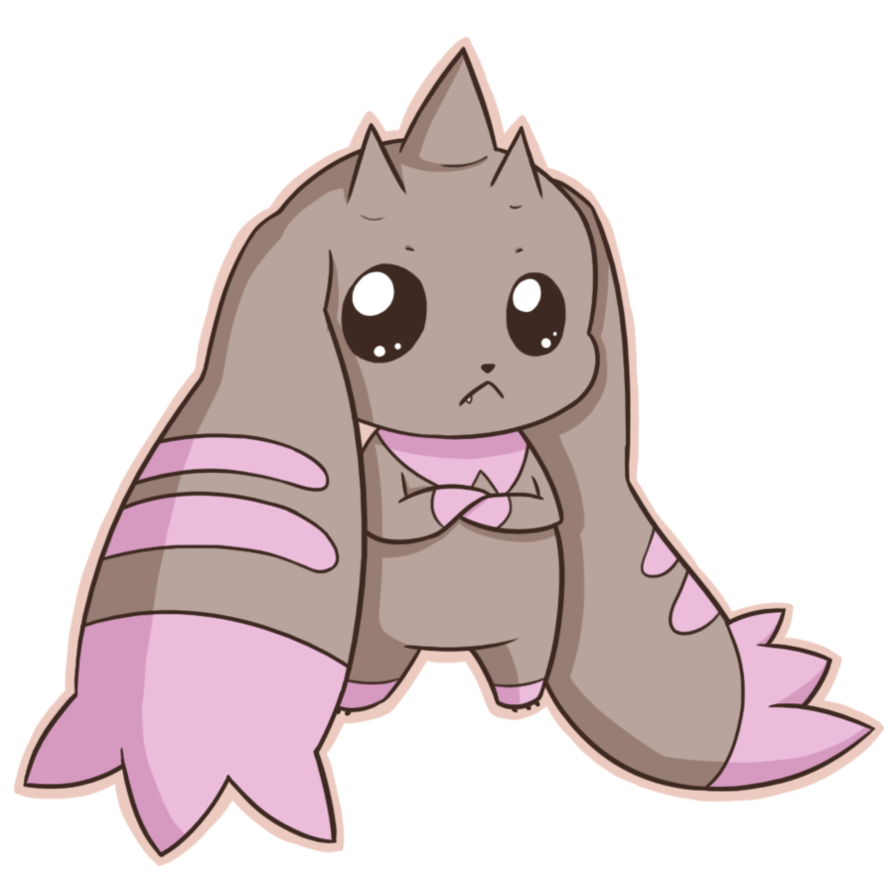
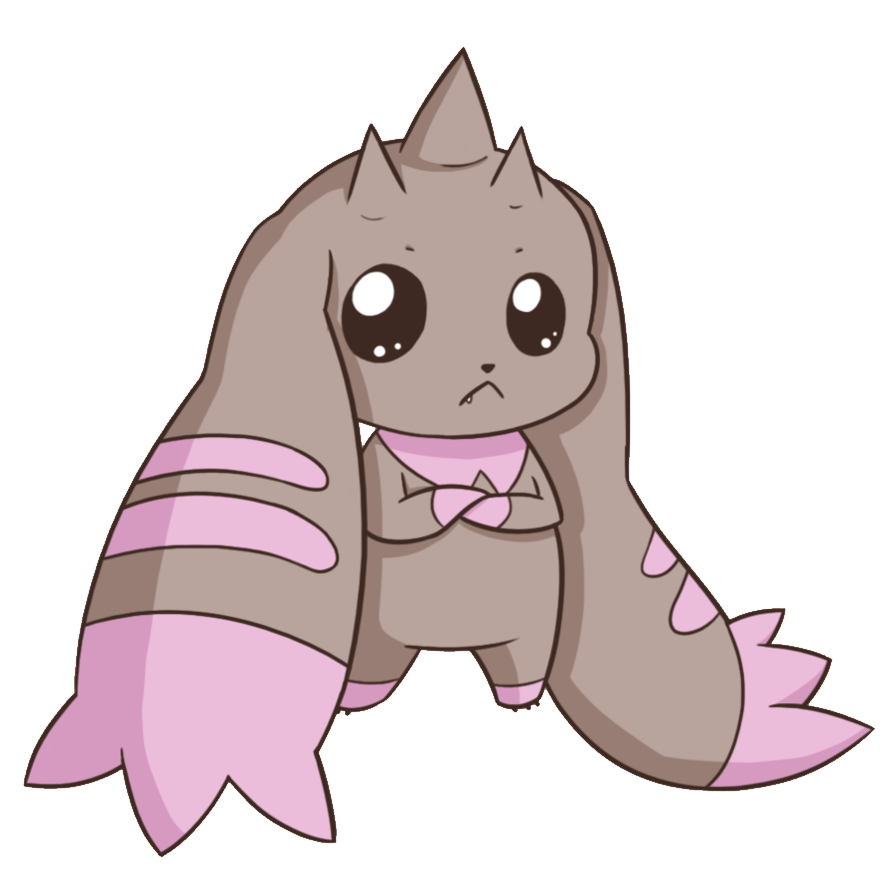
Add files via upload
Updated most if not All the Images.
Added more pokemon & digimon (100 total)
Changed the digimon logo

diff --git a/contacts/phil/projects/DigiPoke/js/main.js b/contacts/phil/projects/DigiPoke/js/main.js
@@ -1,51 +1,72 @@
-
 var mons=[];
-mons[0]= {pic:"mons/Viximon.png", name:"Viximon", type:"digimon"};
-mons[1]= {pic:"mons/1.png", name:"Bulbasaur", type:"pokemon"};
-mons[2]= {pic:"mons/2.png", name:"Ivyasaur", type:"pokemon"};
-mons[3]= {pic:"mons/3.png", name:"Venusaur", type:"pokemon"};
-mons[4]= {pic:"mons/4.png", name:"Charmander", type:"pokemon"};
-mons[5]= {pic:"mons/5.png", name:"Charmeleon", type:"pokemon"};
-mons[6]= {pic:"mons/6.png", name:"Charizard", type:"pokemon"};
-mons[7]= {pic:"mons/7.png", name:"Squirtle", type:"pokemon"};
-mons[8]= {pic:"mons/8.png", name:"Wartortle", type:"pokemon"};
-mons[9]= {pic:"mons/9.png", name:"Blastoise", type:"pokemon"};
-mons[10]= {pic:"mons/10.png", name:"Caterpie", type:"pokemon"};
-mons[11]= {pic:"mons/11.png", name:"Metapod", type:"pokemon"};
-mons[12]= {pic:"mons/12.png", name:"Butterfree", type:"pokemon"};
-mons[13]= {pic:"mons/13.png", name:"Weedle", type:"pokemon"};
-mons[14]= {pic:"mons/14.png", name:"Kakuna", type:"pokemon"};
-mons[15]= {pic:"mons/15.png", name:"Beedrill", type:"pokemon"};
-mons[16]= {pic:"mons/16.png", name:"Pidgey", type:"pokemon"};
-mons[17]= {pic:"mons/17.png", name:"Pidgeotto", type:"pokemon"};
-mons[18]= {pic:"mons/18.png", name:"Pidgeot", type:"pokemon"};
-mons[19]= {pic:"mons/19.png", name:"Rattata", type:"pokemon"};
-mons[20]= {pic:"mons/20.png", name:"Raticate", type:"pokemon"};
-mons[21]= {pic:"mons/21.png", name:"Spearow", type:"pokemon"};
-mons[22]= {pic:"mons/22.png", name:"Fearow", type:"pokemon"};
-mons[23]= {pic:"mons/23.png", name:"Ekans", type:"pokemon"};
-mons[24]= {pic:"mons/24.png", name:"Arbok", type:"pokemon"};
-mons[25]= {pic:"mons/25.png", name:"Pikachu", type:"pokemon"};
-mons[26]= {pic:"mons/26.png", name:"Raichu", type:"pokemon"};
-mons[27]= {pic:"mons/27.png", name:"Sandshrew", type:"pokemon"};
-mons[28]= {pic:"mons/28.png", name:"Sandslash", type:"pokemon"};
-mons[29]= {pic:"mons/29.png", name:"Nidoran♀", type:"pokemon"};
-mons[30]= {pic:"mons/30.png", name:"Nidorina", type:"pokemon"};
-mons[31]= {pic:"mons/31.png", name:"Nidoqueen", type:"pokemon"};
-mons[32]= {pic:"mons/32.png", name:"Nidoran♂", type:"pokemon"};
-mons[33]= {pic:"mons/33.png", name:"Nidorino", type:"pokemon"};
-mons[34]= {pic:"mons/34.png", name:"Nidoking", type:"pokemon"};
-mons[35]= {pic:"mons/35.png", name:"Clefairy", type:"pokemon"};
-mons[36]= {pic:"mons/36.png", name:"Clefable", type:"pokemon"};
-mons[37]= {pic:"mons/37.png", name:"Vulpix", type:"pokemon"};
-mons[38]= {pic:"mons/38.png", name:"Ninetales", type:"pokemon"};
-mons[39]= {pic:"mons/39.png", name:"Jigglypuff", type:"pokemon"};
-mons[40]= {pic:"mons/40.png", name:"Wigglytuff", type:"pokemon"};
-mons[41]= {pic:"mons/41.png", name:"Zubat", type:"pokemon"};
-mons[42]= {pic:"mons/42.png", name:"Golbat", type:"pokemon"};
-mons[43]= {pic:"mons/43.png", name:"Oddish", type:"pokemon"};
-mons[44]= {pic:"mons/44.png", name:"Gloom", type:"pokemon"};
-mons[45]= {pic:"mons/45.png", name:"Vileplume", type:"pokemon"};
+mons[0]= {pic:"mons/Missingno.png", name:"Missingno.", type:"pokemon"};
+mons[1]= {pic:"mons/Bulbasaur.png", name:"Bulbasaur", type:"pokemon"};
+mons[2]= {pic:"mons/Ivysaur.png", name:"Ivyasaur", type:"pokemon"};
+mons[3]= {pic:"mons/Venusaur.png", name:"Venusaur", type:"pokemon"};
+mons[4]= {pic:"mons/Charmander.png", name:"Charmander", type:"pokemon"};
+mons[5]= {pic:"mons/Charmeleon.png", name:"Charmeleon", type:"pokemon"};
+mons[6]= {pic:"mons/Charizard.png", name:"Charizard", type:"pokemon"};
+mons[7]= {pic:"mons/Squirtle.png", name:"Squirtle", type:"pokemon"};
+mons[8]= {pic:"mons/Wartortle.png", name:"Wartortle", type:"pokemon"};
+mons[9]= {pic:"mons/Blastoise.png", name:"Blastoise", type:"pokemon"};
+mons[10]= {pic:"mons/Caterpie.png", name:"Caterpie", type:"pokemon"};
+mons[11]= {pic:"mons/Metapod.png", name:"Metapod", type:"pokemon"};
+mons[12]= {pic:"mons/Butterfree.png", name:"Butterfree", type:"pokemon"};
+mons[13]= {pic:"mons/Weedle.png", name:"Weedle", type:"pokemon"};
+mons[14]= {pic:"mons/Kakuna.png", name:"Kakuna", type:"pokemon"};
+mons[15]= {pic:"mons/Beedrill.png", name:"Beedrill", type:"pokemon"};
+mons[16]= {pic:"mons/Pidgey.png", name:"Pidgey", type:"pokemon"};
+mons[17]= {pic:"mons/Pidgeotto.png", name:"Pidgeotto", type:"pokemon"};
+mons[18]= {pic:"mons/Pidgeot.png", name:"Pidgeot", type:"pokemon"};
+mons[19]= {pic:"mons/Rattata.png", name:"Rattata", type:"pokemon"};
+mons[20]= {pic:"mons/Raticate.png", name:"Raticate", type:"pokemon"};
+mons[21]= {pic:"mons/Spearow.png", name:"Spearow", type:"pokemon"};
+mons[22]= {pic:"mons/Fearow.png", name:"Fearow", type:"pokemon"};
+mons[23]= {pic:"mons/Ekans.png", name:"Ekans", type:"pokemon"};
+mons[24]= {pic:"mons/Arbok.png", name:"Arbok", type:"pokemon"};
+mons[25]= {pic:"mons/Pikachu.png", name:"Pikachu", type:"pokemon"};
+mons[26]= {pic:"mons/Raichu.png", name:"Raichu", type:"pokemon"};
+mons[27]= {pic:"mons/Sandshrew.png", name:"Sandshrew", type:"pokemon"};
+mons[28]= {pic:"mons/Sandslash.png", name:"Sandslash", type:"pokemon"};
+mons[29]= {pic:"mons/Nidoran_F.png", name:"Nidoran♀", type:"pokemon"};
+mons[30]= {pic:"mons/Nidorina.png", name:"Nidorina", type:"pokemon"};
+mons[31]= {pic:"mons/Nidoqueen.png", name:"Nidoqueen", type:"pokemon"};
+mons[32]= {pic:"mons/Nidoran_M.png", name:"Nidoran♂", type:"pokemon"};
+mons[33]= {pic:"mons/Nidorino.png", name:"Nidorino", type:"pokemon"};
+mons[34]= {pic:"mons/Nidoking.png", name:"Nidoking", type:"pokemon"};
+mons[35]= {pic:"mons/Clefairy.png", name:"Clefairy", type:"pokemon"};
+mons[36]= {pic:"mons/Clefable.png", name:"Clefable", type:"pokemon"};
+mons[37]= {pic:"mons/Vulpix.png", name:"Vulpix", type:"pokemon"};
+mons[38]= {pic:"mons/Ninetales.png", name:"Ninetales", type:"pokemon"};
+mons[39]= {pic:"mons/Jigglypuff.png", name:"Jigglypuff", type:"pokemon"};
+mons[40]= {pic:"mons/Wigglytuff.png", name:"Wigglytuff", type:"pokemon"};
+mons[41]= {pic:"mons/Zubat.png", name:"Zubat", type:"pokemon"};
+mons[42]= {pic:"mons/Golbat.png", name:"Golbat", type:"pokemon"};
+mons[43]= {pic:"mons/Oddish.png", name:"Oddish", type:"pokemon"};
+mons[44]= {pic:"mons/Gloom.png", name:"Gloom", type:"pokemon"};
+mons[45]= {pic:"mons/Vileplume.png", name:"Vileplume", type:"pokemon"};
+mons[46]= {pic:"mons/Paras.png", name:"Paras", type:"pokemon"};
+mons[47]= {pic:"mons/Parasect.png", name:"Parasect", type:"pokemon"};
+mons[48]= {pic:"mons/Venonat.png", name:"Venonat", type:"pokemon"};
+mons[49]= {pic:"mons/Venomoth.png", name:"Venomoth", type:"pokemon"};
+mons[50]= {pic:"mons/Diglett.png", name:"Diglett", type:"pokemon"};
+mons[51]= {pic:"mons/Dugtrio.png", name:"Dugtrio", type:"pokemon"};
+mons[52]= {pic:"mons/Meowth.png", name:"Meowth", type:"pokemon"};
+mons[53]= {pic:"mons/Persian.png", name:"Persian", type:"pokemon"};
+mons[54]= {pic:"mons/Psyduck.png", name:"Psyduck", type:"pokemon"};
+mons[55]= {pic:"mons/Golduck.png", name:"Golduck", type:"pokemon"};
+mons[56]= {pic:"mons/Mankey.png", name:"Mankey", type:"pokemon"};
+mons[57]= {pic:"mons/Primeape.png", name:"Primeape", type:"pokemon"};
+mons[58]= {pic:"mons/Growlithe.png", name:"Growlithe", type:"pokemon"};
+mons[59]= {pic:"mons/Arcanine.png", name:"Arcanine", type:"pokemon"};
+mons[60]= {pic:"mons/Poliwag.png", name:"Poliwag", type:"pokemon"};
+mons[61]= {pic:"mons/Poliwhirl.png", name:"Poliwhirl", type:"pokemon"};
+mons[62]= {pic:"mons/Poliwrath.png", name:"Poliwrath", type:"pokemon"};
+mons[63]= {pic:"mons/Abra.png", name:"Abra", type:"pokemon"};
+mons[251]= {pic:"mons/Celebi.png", name:"Celebi", type:"pokemon"};
+mons[257]= {pic:"mons/Blaziken.png", name:"Blaziken", type:"digimon"};
+mons[378]= {pic:"mons/Lucario.png", name:"Lucario", type:"pokemon"};
+mons[393]= {pic:"mons/Piplup.png", name:"Piplup", type:"pokemon"};
 mons[746]= {pic:"mons/Wishiwashi.png", name:"Wishiwashi", type:"pokemon"};
 mons[774]= {pic:"mons/Minior.png", name:"Minior", type:"pokemon"};
 mons[1000]= {pic:"mons/Augumon.png", name:"Augumon", type:"digimon"};
@@ -56,6 +77,28 @@ mons[1004]= {pic:"mons/Renamon.png", name:"Renamon", type:"digimon"};
 mons[1005]= {pic:"mons/Terriermon.png", name:"Terriermon", type:"digimon"};
 mons[1006]= {pic:"mons/Lopmon.png", name:"Lopmon", type:"digimon"};
 mons[1007]= {pic:"mons/Guardromon.png", name:"Guardromon", type:"digimon"};
+mons[1008]= {pic:"mons/Viximon.png", name:"Viximon", type:"digimon"};
+mons[1009]= {pic:"mons/Tentomon.png", name:"Tentomon", type:"digimon"};
+mons[1010]= {pic:"mons/Palmon.png", name:"Palmon", type:"digimon"};
+mons[1011]= {pic:"mons/Patamon.png", name:"Patamon", type:"digimon"};
+mons[1012]= {pic:"mons/Gatomon.png", name:"Gatomon", type:"digimon"};
+mons[1013]= {pic:"mons/Garurumon.png", name:"Garurumon", type:"digimon"};
+mons[1014]= {pic:"mons/Magnamon.png", name:"Magnamon", type:"digimon"};
+mons[1015]= {pic:"mons/Birdramon.png", name:"Birdramon", type:"digimon"};
+mons[1016]= {pic:"mons/Kabuterimon.png", name:"Kabuterimon", type:"digimon"};
+mons[1017]= {pic:"mons/Greymon.png", name:"Greymon", type:"digimon"};
+mons[1018]= {pic:"mons/Metalgreymon.png", name:"Metalgreymon", type:"digimon"};
+mons[1019]= {pic:"mons/Skullgreymon.png", name:"Skullgreymon", type:"digimon"};
+mons[1020]= {pic:"mons/Wargreymon.png", name:"Wargreymon", type:"digimon"};
+mons[1021]= {pic:"mons/Weregarurumon.png", name:"Weregarurumon", type:"digimon"};
+mons[1022]= {pic:"mons/Metalgarurumon.png", name:"Metalgarurumon", type:"digimon"};
+mons[1023]= {pic:"mons/Wormmon.png", name:"Wormmon", type:"digimon"};
+mons[1024]= {pic:"mons/Flamedramon.png", name:"Flamedramon", type:"digimon"};
+mons[1025]= {pic:"mons/Bakemon.png", name:"Bakemon", type:"digimon"};
+mons[1026]= {pic:"mons/Phantomon.png", name:"Phantomon", type:"digimon"};
+mons[1027]= {pic:"mons/Snimon.png", name:"Snimon", type:"digimon"};
+mons[1028]= {pic:"mons/Kuwagamon.png", name:"Kuwagamon", type:"digimon"};
+mons[1029]= {pic:"mons/Ogremon.png", name:"Ogremon", type:"digimon"};
 
 
 
